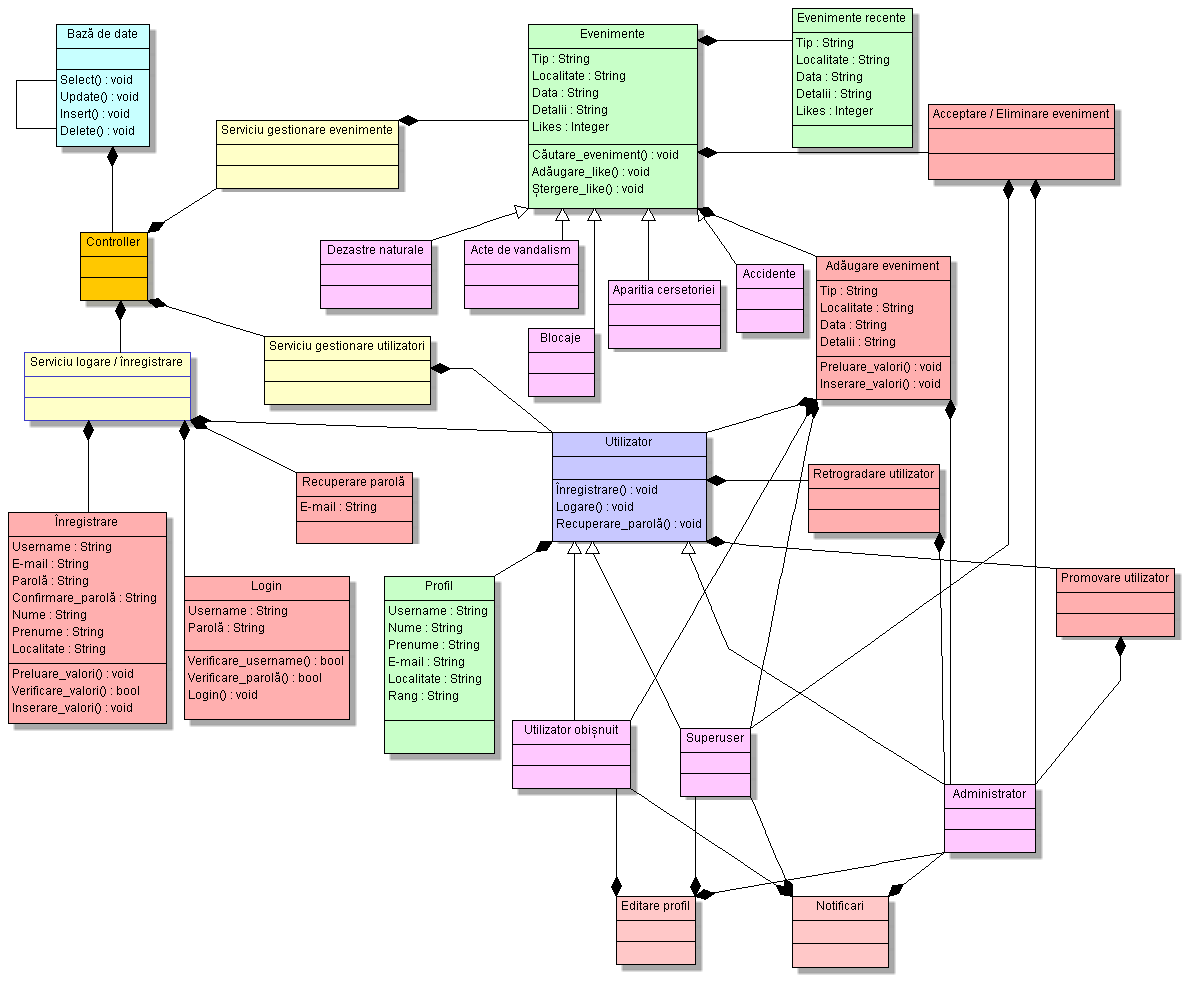
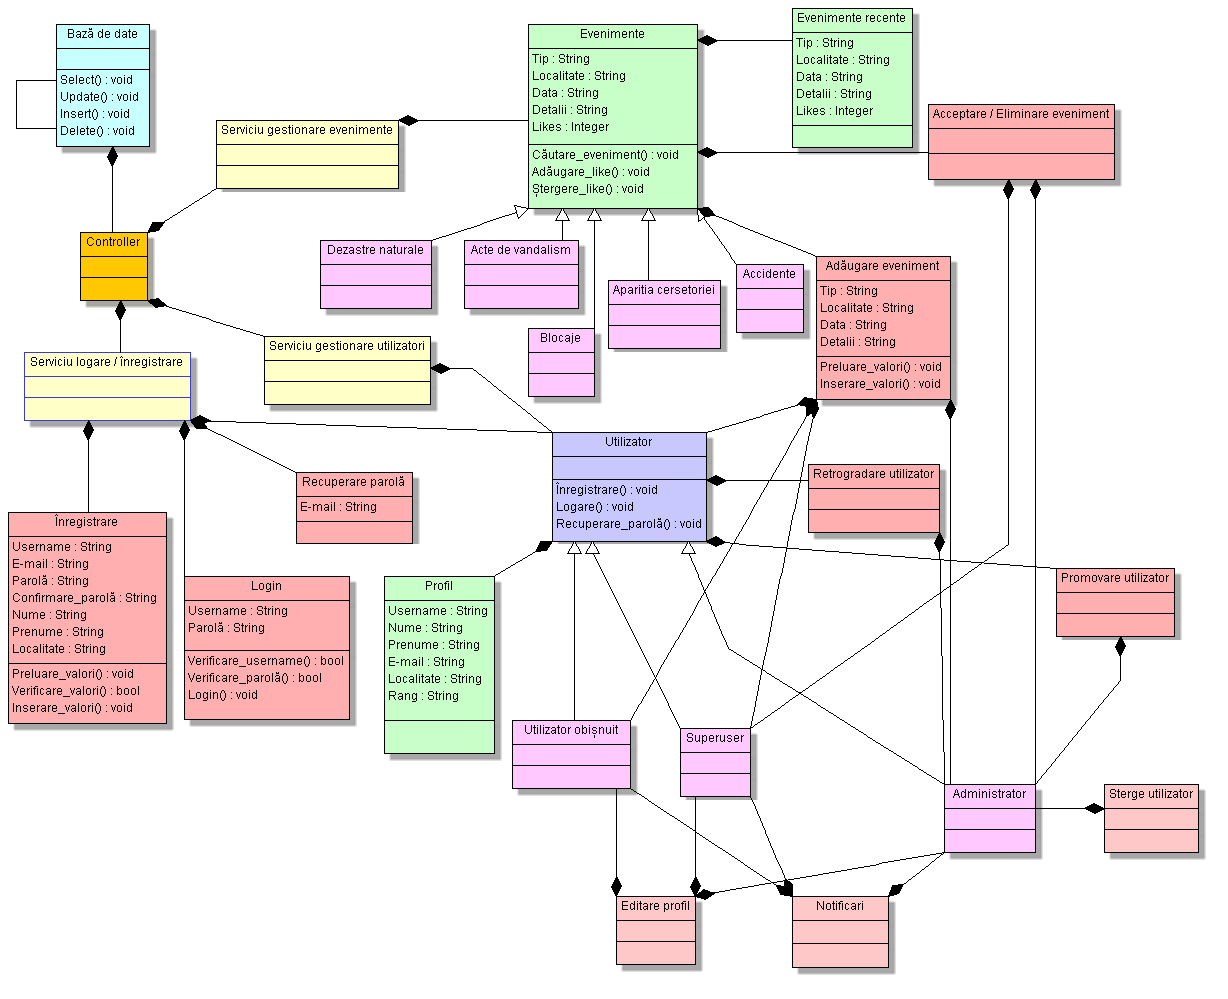
Add files via upload

diff --git a/Documentație/CityZen - Documentație.html b/Documentație/CityZen - Documentație.html
@@ -151,7 +151,7 @@
 			<li>pagina principală, ce va oferi utilizatorului redirecționări către celelalte pagini Web ale aplicației;</li>
 			<li>o pagină care afișează evenimentele petrecute în oraș. Utilizatorul va putea filtra tipul de conținut afișat de aplicația Web: zona din care îi sunt afișate evenimentele, data la care s-au petrecut (crescator,descrescator) etc. De asemenea, aplicația va implementa un sistem de notificări de tip pop-up;</li>
 			<li>o pagină accesibilă doar de către superuser si administrator, în care acestia pot sa accepte si sa posteze un eveniment, sau sa il stearga definitiv din baza de date. Acest lucru va fi trimis catre utilizatorul care a adaugat anuntul in cauza ca si notificare ( "Anuntul din categoria x a fost postat/sters");</li>
-			<li> o pagina accesibila doar adminului , in care acesta poate promova userii simpli la grad de superuser sau chiar admin. De asemenea, din paginile in care se afla anunturi,doar adminul poate descarca un "sumar" al acestora in format JSON. </li>
+			<li> o pagina accesibila doar adminului , in care acesta poate promova userii simpli la grad de superuser sau chiar admin, ori poate sterge un anumit cont. De asemenea, din paginile in care se afla anunturi,doar adminul poate descarca un "sumar" al acestora in format JSON. </li>
 			<li>o pagină de logare / autentificare.</li>
 			<li>o pagină de register.</li>
 			<li>o pagină de recuperare parola.</li>
